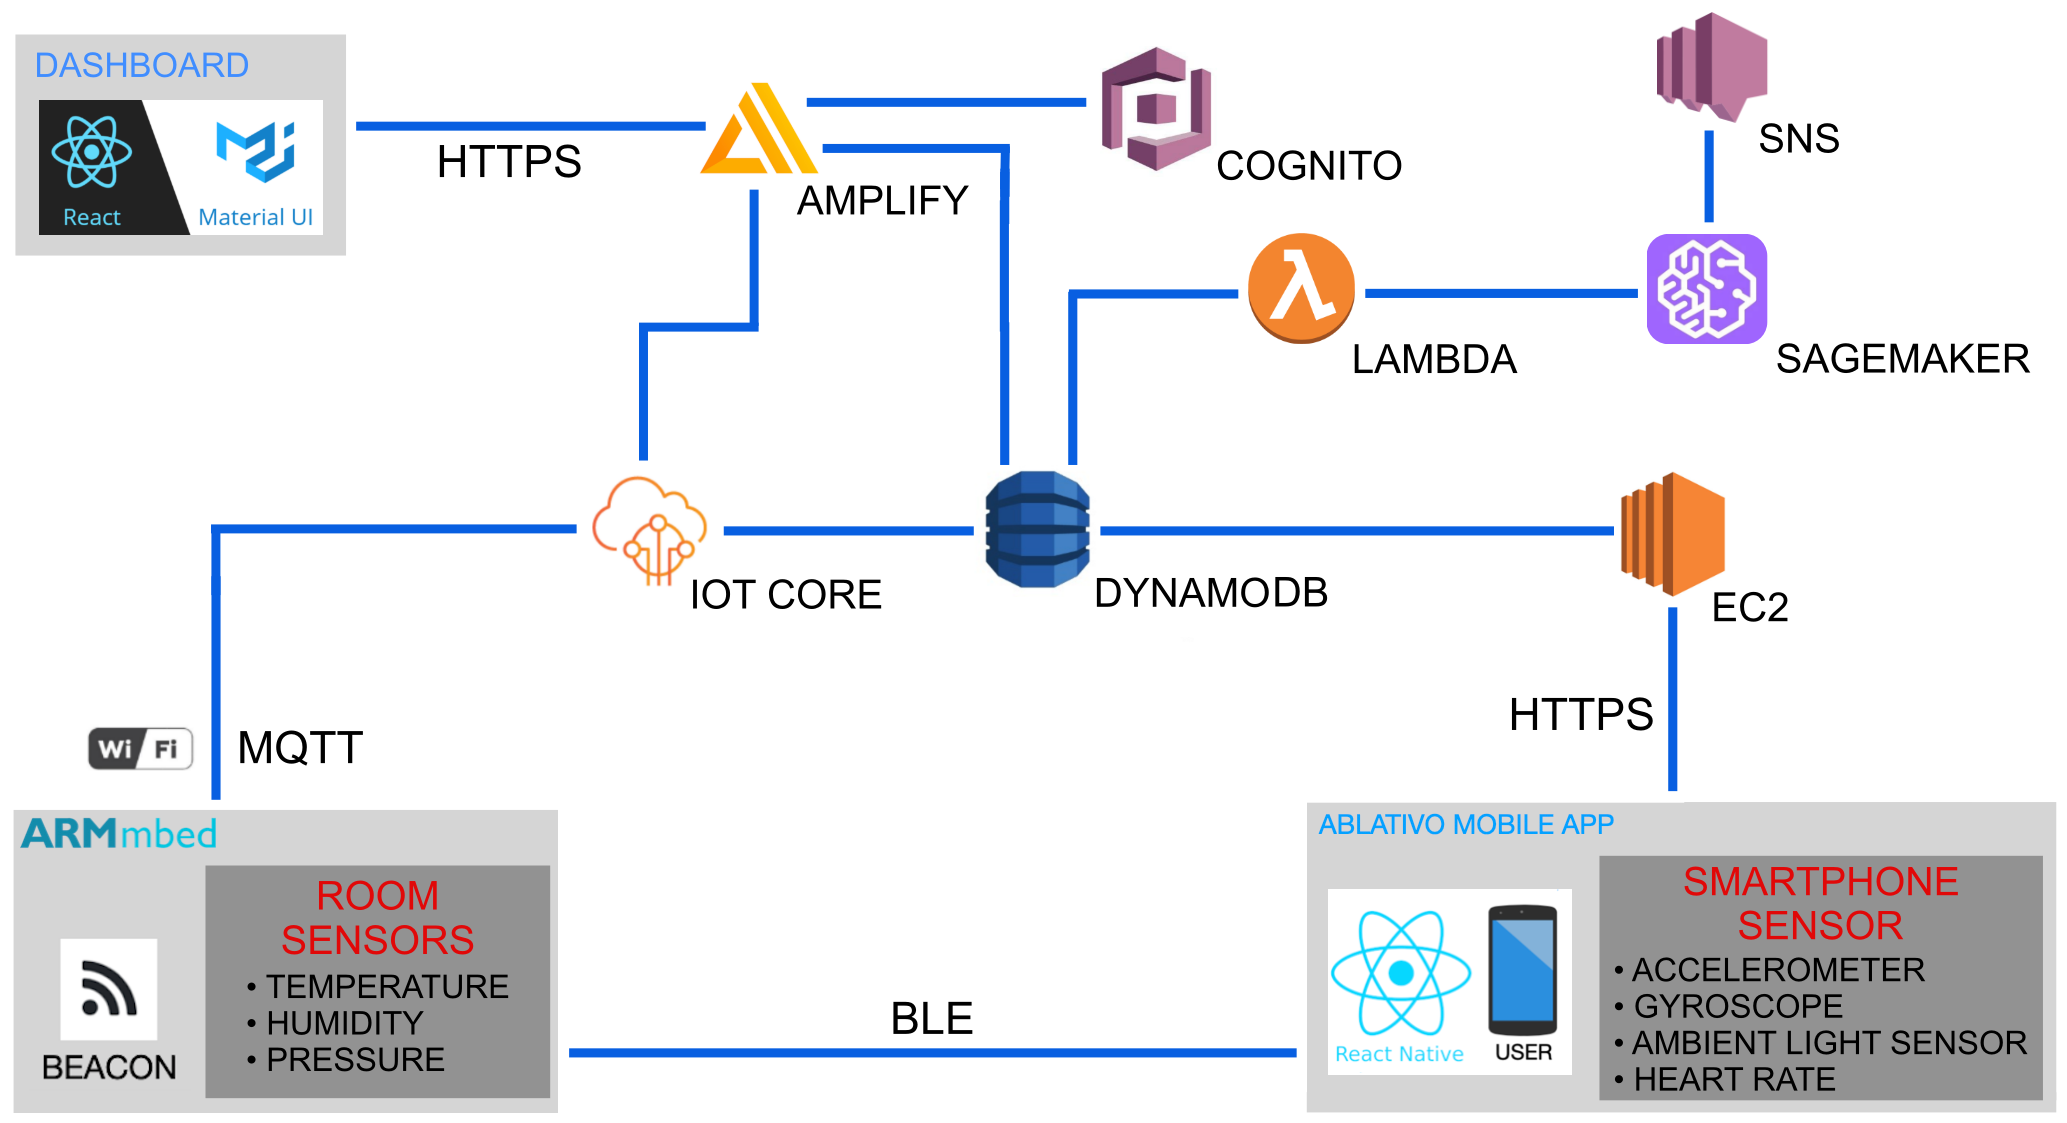
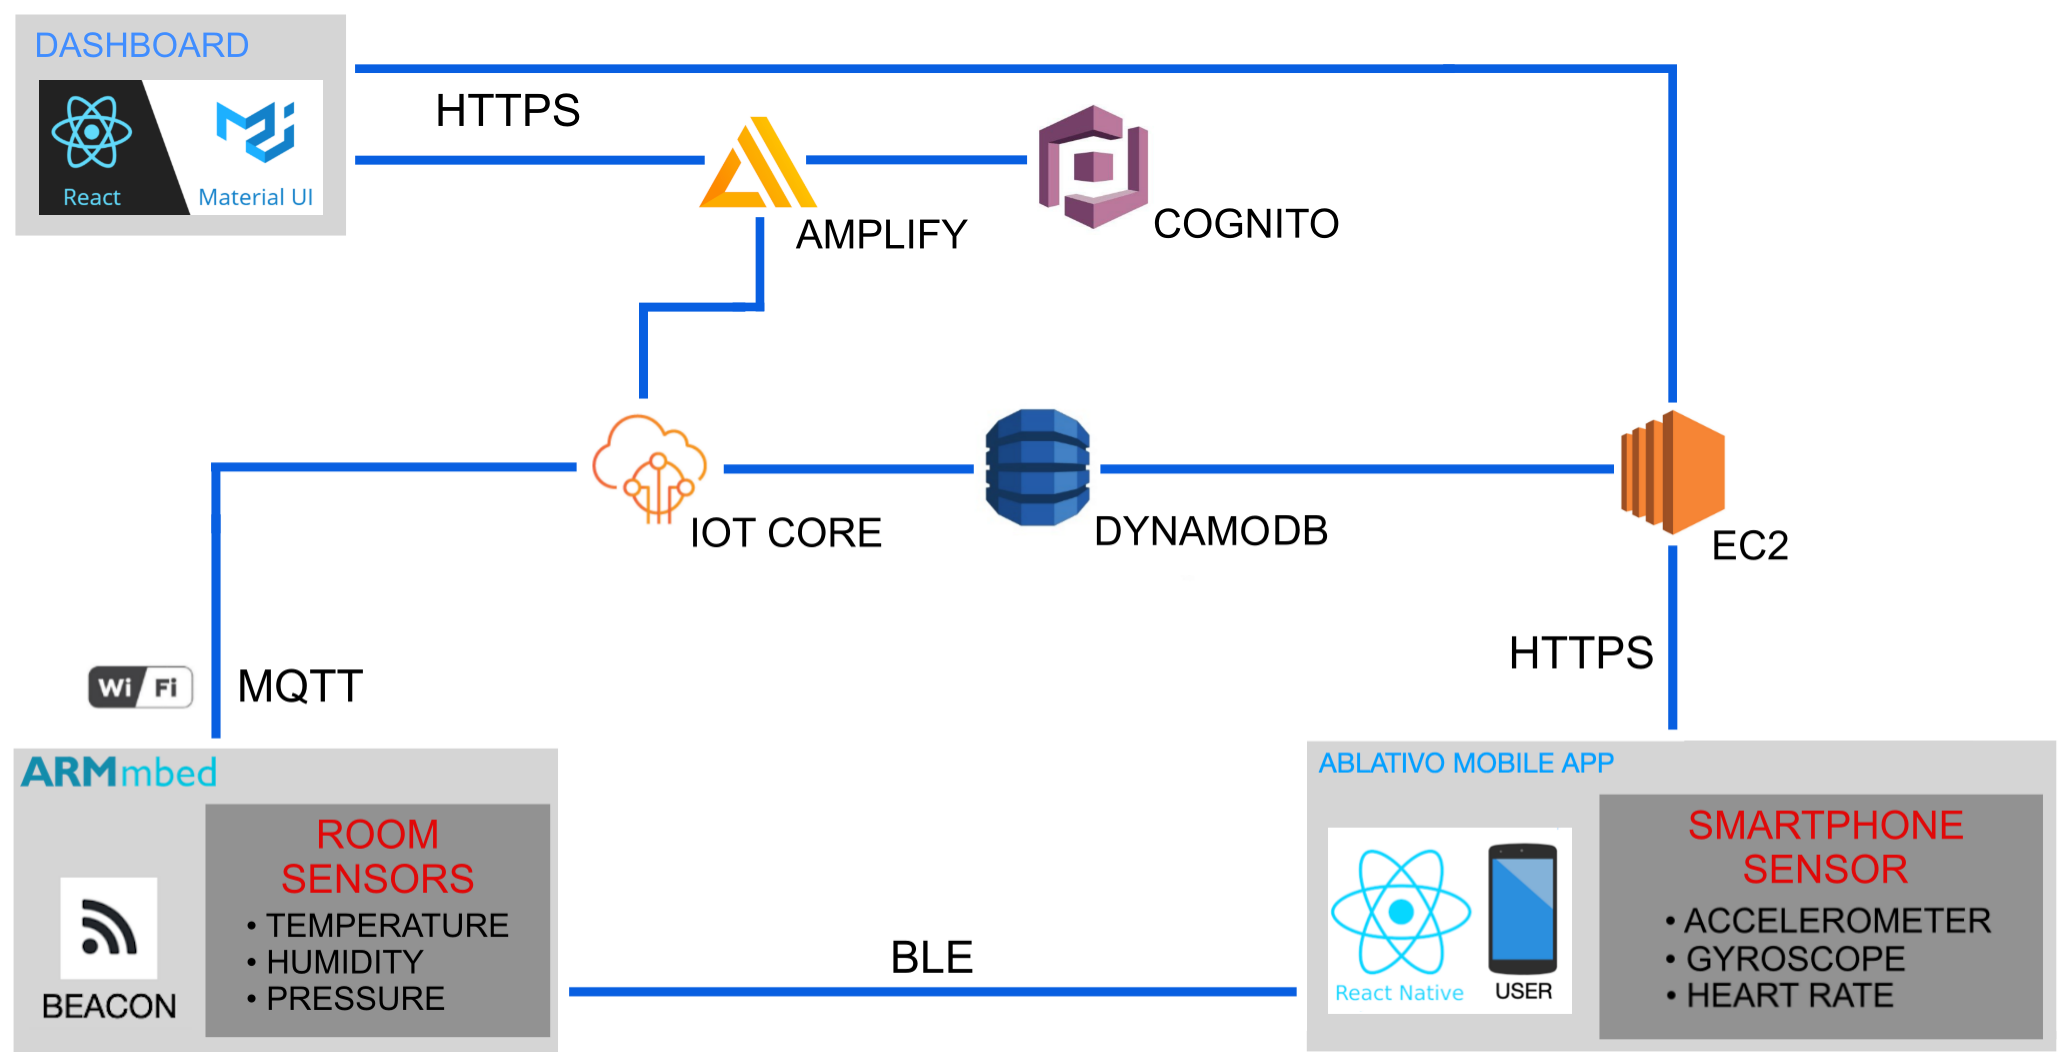
architecture update

diff --git a/Architecture.md b/Architecture.md
@@ -11,7 +11,7 @@ The following paragraph briefly describes the execution flow of the service and 
 
 4. During the visit, both smartphone and embedded devices retrieve values from some sensors and store them into the database to reconstruct the activity/emotions of the user. The sensors are managed by IoT core.
 
-5. At the end of the visit, a Lambda function retrieves all the data connected to the user, that are converted into musical notes, and then used as input for a Neural Network deployed on Sagemaker to generates a melody. Once made, the song is sent to the user email through SNS.
+5. At the end of the visit, all the data connected to the user are converted into musical notes and then used as input for a Neural Network to generates a melody.
 
 6. At the same time, the dashboard for data analysis shows to the curator the environment telemetries and statics about the number of visitors inside the museum. The interaction with the cloud services is managed by AWS amplify, and in particular the authentication service by Cognito.
 
@@ -22,16 +22,13 @@ Now we have a general overview and so we can go into the details of the componen
 ---
 ### Table of contents
 * [Mobile application for visitors](#app)
-* [Dashboard for data analysis](#dboard)
+* [Data analytics dashboard for the curator](#dboard)
 * [Amazon web service](#aws)
     * [IoT Core](#iot)
     * [DynamoDB](#dyno)
     * [EC2 (application back end)](#ec2)
     * [Cognito](#cognito)
     * [Amplify](#amply)
-    * [Lambda](#lambda)
-    * [Sagemaker](#sage)
-    * [SNS](#sns)
 * [Sensors](#sensors)
     * [Beacon + Environmental telemetries](#beacon)
     * [Smartphone Sensors](#smartsens)
@@ -44,14 +41,14 @@ Now we have a general overview and so we can go into the details of the componen
 ---
 ## <a id="app"></a>Mobile application for visitors
 
-It is an open-source application available on our git repository and provided as apk. We are talking about a hybrid app developed on ***React Native***, a cross-platform mobile development framework that allows programmers to create apps for both iOS and Android in one simple language, JavaScript. Indeed React Native runs on React, an open-source library for building UI with JavaScript, this framework through a set of components builds a mobile application with a native look and feel. Due to the pretty simple learning curve and well-balanced performance React Native it’s the perfect compromise for our application.
+It is an open-source application available on our git repository and provided as apk. We are talking about a hybrid app developed on **React Native**, a cross-platform mobile development framework that allows programmers to create apps for both iOS and Android in one simple language, JavaScript. Indeed React Native runs on React, an open-source library for building UI with JavaScript, this framework through a set of components builds a mobile application with a native look and feel. Due to the pretty simple learning curve and well-balanced performance React Native it’s the perfect compromise for our application.
 
 ---
-## <a id="dboard"></a>Dashboard for data analysis
+## <a id="dboard"></a>Data analytics dashboard for the curator
 Management and monitoring module, practically speaking the admin console. It is implemented as a **React + Material UI** web application so that to have a fully responsive and accessible from everywhere tool, with great performances and a pleasant Material Design interface. It provides information about:
 * The number of visitors inside the museum using the mobile application;
 * The current environmental status of the museum, showing the telemetries collected by the embedded sensors;
-* The number of likes that each room receive;
+* Details about the current status of each room and artwork;
 
 In future releases, it may include other functionalities, such as a calendar, Q&A fast personalization, and so on.
 
@@ -74,7 +71,7 @@ DynamoDB supports ACID transactions to enable you to build business-critical app
 However, given the price, for possible deployment, we may use **Amazon Timestream** for the telemetries (currently not available for educate accounts).
 
 
-### <a id="ec2"></a>EC2 (application back end)
+### <a id="ec2"></a>EC2 
 Amazon Elastic Compute Cloud (Amazon EC2) is a web service that provides secure, resizable compute capacity in the cloud. It is designed to make web-scale cloud computing easier for developers.
 Here there is the application Back-end, fully developed on ***Node.js***, an open-source asynchronous event-driven JavaScript runtime designed to build scalable network applications.
 Its intrinsic feature of non-blocking I/O, the fantastic community, and overall performance made Node.js the perfect choice for our application. Indeed a Node.js app is run in a single process without creating a new thread for each request and the provided set of asynchronous I/O primitives prevent JavaScript code from blocking.
@@ -89,23 +86,9 @@ In our case, it is used only for the curators' authentication in the Dashboard. 
 AWS Amplify is an end-to-end solution that enables mobile and front-end web developers to build and deploy secure, scalable full-stack applications.
 This framework provides different components that simplify the configuration of various application components. In our case:
 - *Authentication* for user registration & authentication
-- *API (GraphQL and REST)* to access the database
 - *PubSub* to manage messaging & subscriptions (for sensors)
 
-
-### <a id="lambda"></a>Lambda
-Lambda is an event-driven, serverless computing platform that runs code in response to events and automatically manages the computing resources required by that code.
-We are using it to collect the telemetries of a given user, in order to feed the machine learning model.
-
-
-### <a id="sage"></a>Sagemaker
-SageMaker is a fully managed service that provides every developer and data scientist with the ability to build, train, and deploy machine learning (ML) models quickly.
-Here we have the music generation.
-
-
-### <a id="sns"></a>SNS
-Amazon Simple Notification Service (SNS) is a fully managed messaging service for both system-to-system and app-to-person (A2P) communication. 
-We are using it to send the music to the user mail.
+To access the database, we may use *API (GraphQL or REST)*. However, the educate account does not allow us to use GraphQL. Therefore, we decided to implement the APIs on the EC2 back-end (the REST version implies Lamba functions that are just more expensive for this simple task).
 
 
 ### <a id="why"></a> Why AWS and a full cloud infrastructure?  
@@ -154,7 +137,6 @@ However, we opted for the first option, given the higher reliability. The driver
 We will periodically retrieve values from 4 smartphone sensors:
 * `Accelerometer` 
 * `Gyroscope`
-* `Ambient Light Sensor`
 
 
 To retrieve them we use React Native framework sensors API. These values are necessary to detect the user actions, and therefore to generate the final melody.
@@ -174,9 +156,9 @@ In this part we deal with the technical aspects we have in mind to create a pers
 
 #### Data Collection
 The first thing to do is to extract the values from the sensors. We decided to use:
-* ***4 ambient sensors***: `Temperature`, `Humidity` and `Pressure` with STM board, and `Ambient Light Sensor` with the smartphones of the users. These aren't personal values but they affect the emotional condition of the users.
+* ***3 ambient sensors***: `Temperature`, `Humidity` and `Pressure` with STM board, with the smartphones of the users. These aren't personal values but they affect the emotional condition of the users.
 * ***3 personal sensors***: `Accelerometer`, `Gyroscope`, `Heart Rate Sensor`. These values are different for every user because they depend on the activity they are doing.
-* ***Interaction with application***: `Most frequently asked questions`, `Time spent with the statue with which he interacted most`, `Total application usage time`. These are three main measure that helps us to understand how the user interacts with the statues. 
+
 
 We based our analisys on these papers: 
 * [Emotion Detection Using Noninvasive Low Cost Sensors](https://arxiv.org/pdf/1708.06664.pdf)

diff --git a/README.md b/README.md
@@ -21,7 +21,6 @@ However, here comes our application, Ablativo, intending to bring also those lea
 
 * **[2nd-Delivery](./2nd_delivery.md)**: This documents shows why and how we have changed our application from the first delivery;
 
-* **[StartCup-Lazio partecipazione](./pdf/Scheda-partecipazione-Bando-Start-Cup-2020.pdf)**: Partecipation module for StartCup Lazio (in Italian);
 
 
 ## Video presentations
@@ -44,6 +43,4 @@ We are three computer engineers and students of the MSc in engineering in comput
 
 ## Collaborators
 * ##### [Elisa L'Angiocola](http://linkedin.com/in/elisa-l-angiocola-57a69353)  (Design advisor)
-* ##### [Lorenzo Urzia](http://linkedin.com/in/lorenzo-urzia-775203167) (logo creator)
-* ##### [Aurora Ceccarelli](), [Mariana De Luca](), [Angelica Tirocchi](), [Silvia Utensili](), [Federica Orlandi](), [Emanuele Palaia](), [Nicola Palaia](), [Adalberto Cucci](), [Riccardo Rispoli]() (Business management)
 

diff --git a/Evaluation.md b/Evaluation.md
@@ -216,8 +216,6 @@ Glossary:
 | AWS amplify must be able to retrieve useful data from the DynamoDB database | ✅ |
 | AWS amplify must be able to interact with Cognito so as to ensure the curators authentication | ✅ |
 | AWS amplify must be able to interact with IoT core in order to detect devices failures | 🔜 (PoC) |
-| AWS lambda must be able to retrieve the correct telemetries for a given user | ⚠ |
-| Sagemaker must be able to make a melody given the notes in input | ⚠ |
 | SNS must be able to send to user mail the final melody | ⚠ |
 
 
